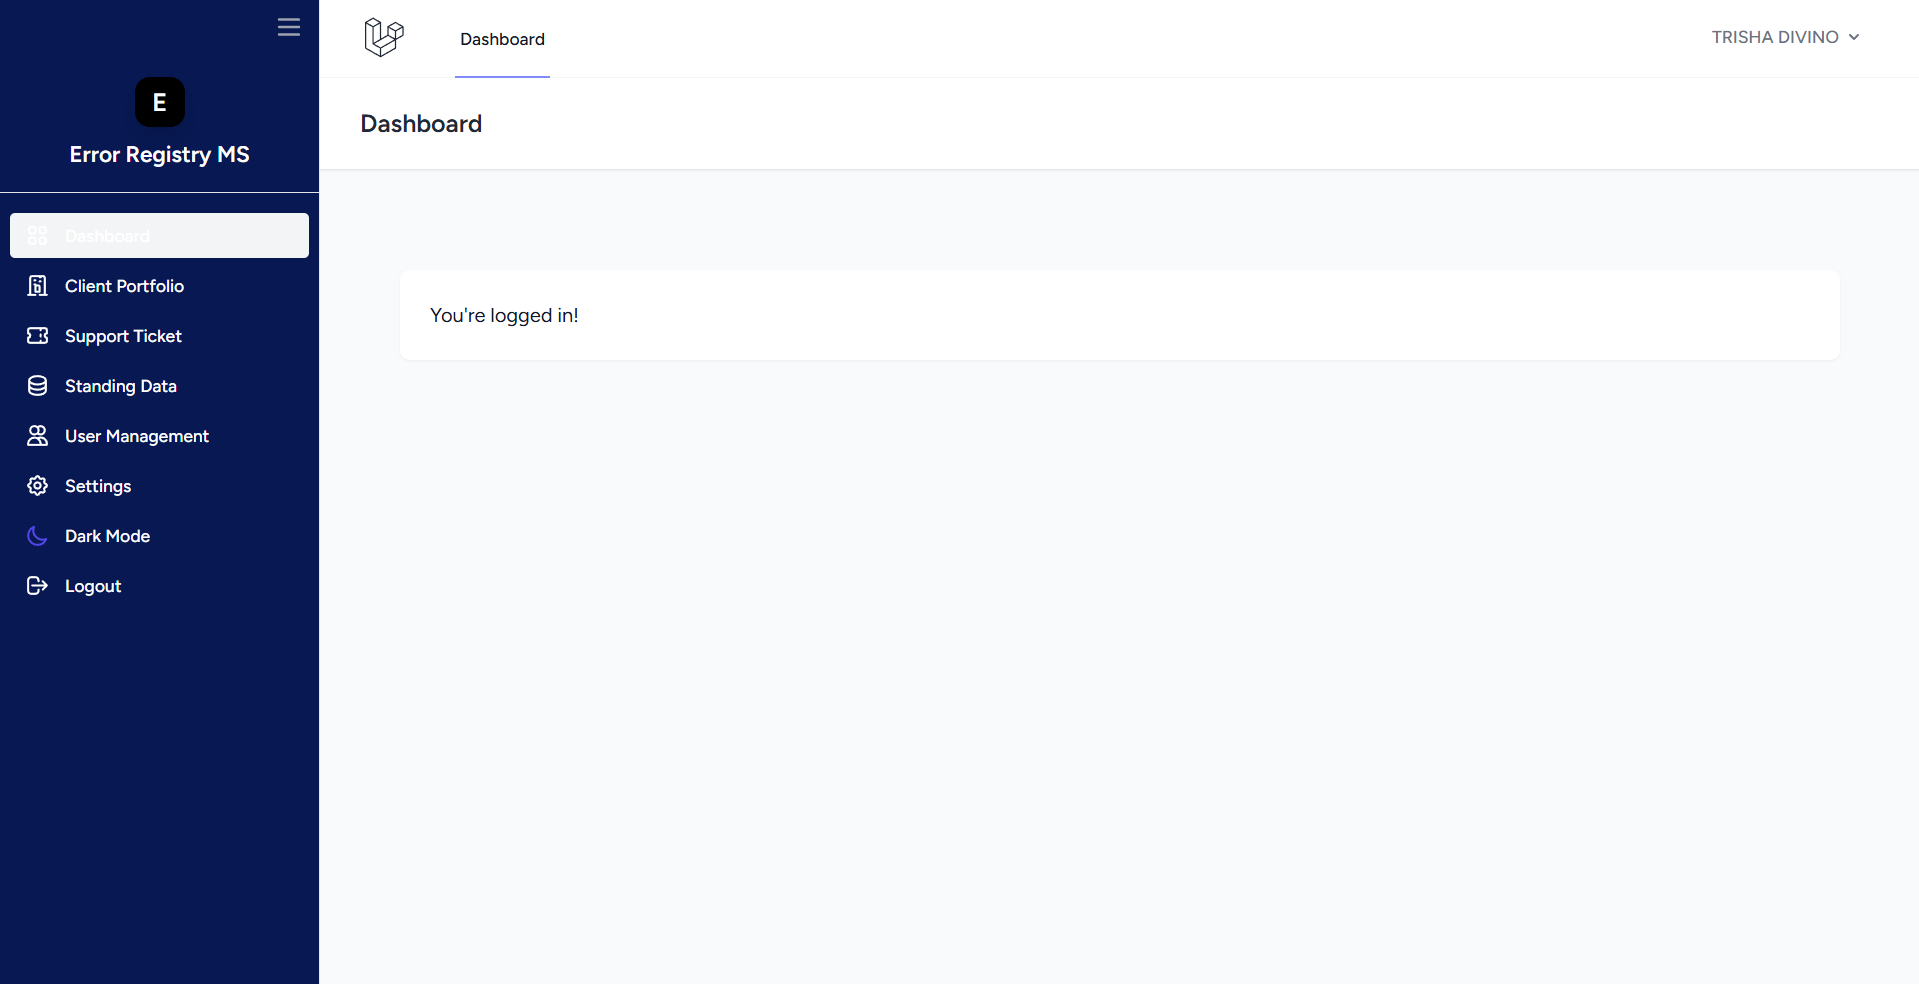
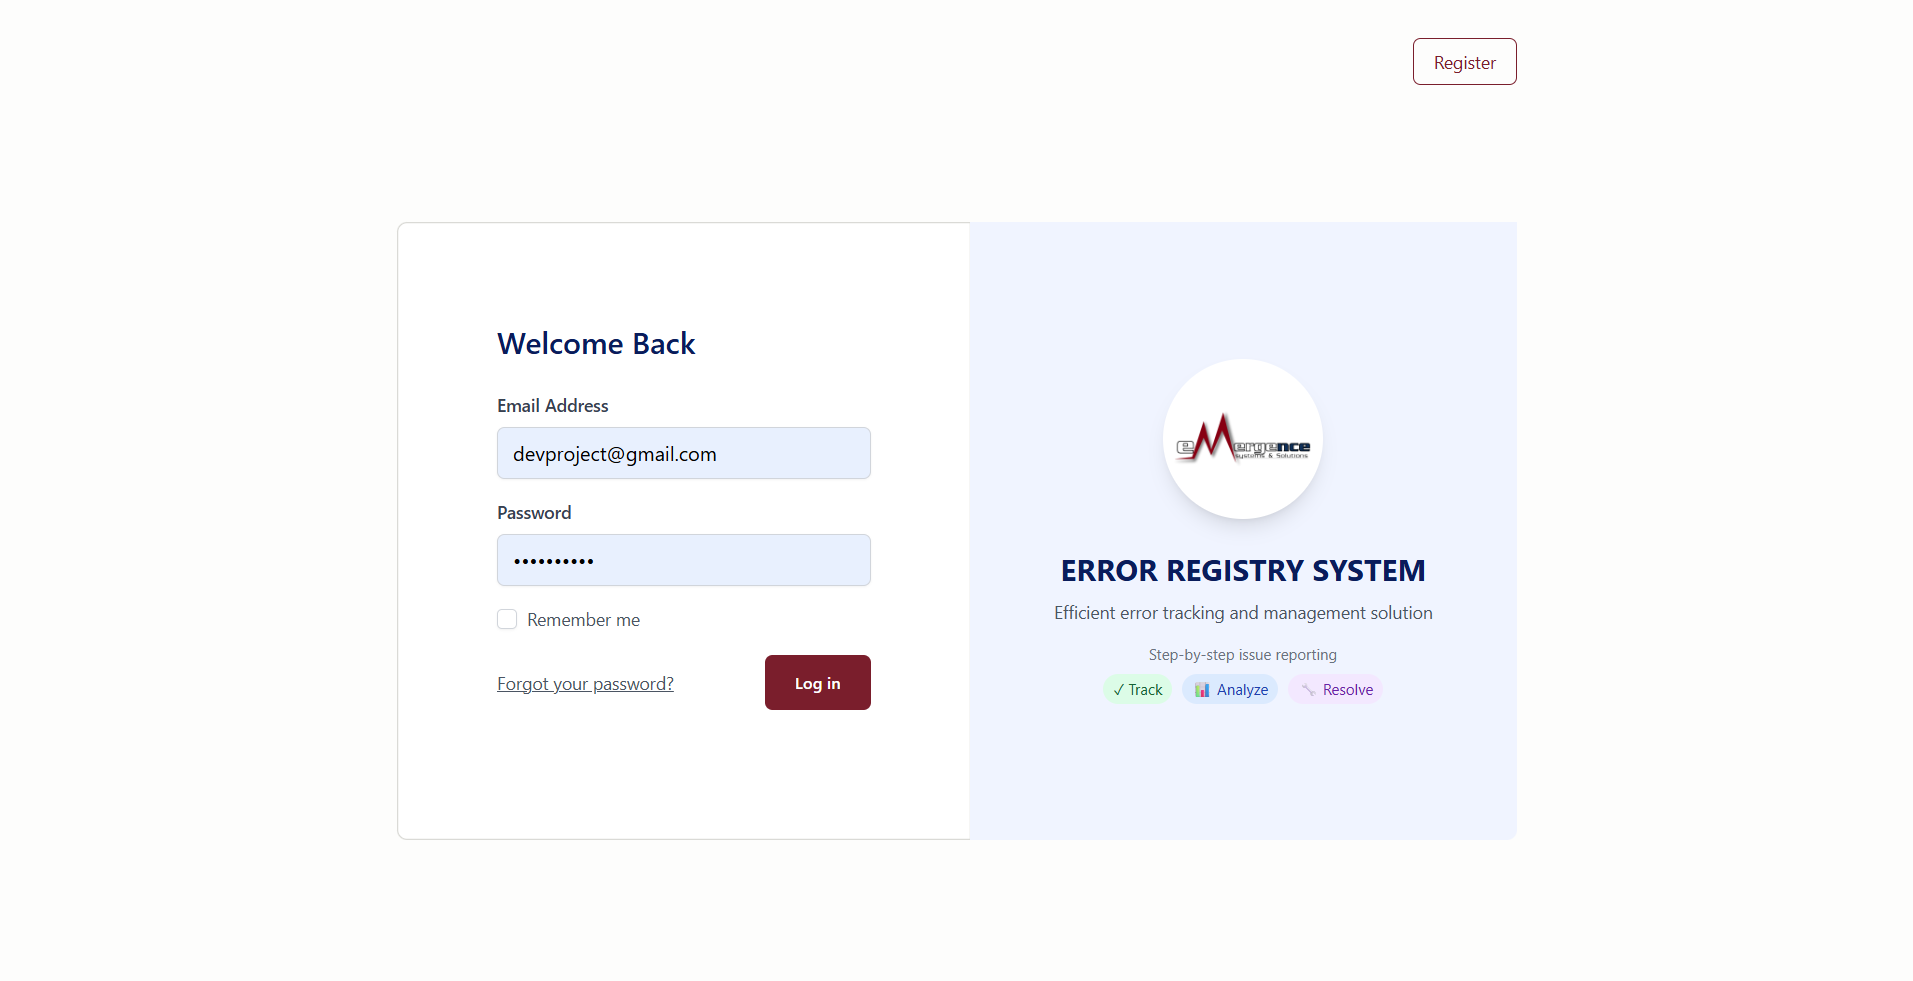
updated ers file

diff --git a/src/components/Projects.jsx b/src/components/Projects.jsx
@@ -3,7 +3,7 @@ import "./css/Projects.css";
 const projectData = [
   {
     title: "Library Management System",
-    role: "Personal Project |Main Developer",
+    role: "Freelance Project |Main Developer",
     description: "Developed a system to manage book transactions, user accounts, fines, and inventory. Features include tracking borrowed, returned, damaged, and lost books, automated report generation, and payment processing.",
     tech: "Laravel",
     status: "Completed",

diff --git a/src/components/Home.jsx b/src/components/Home.jsx
@@ -47,7 +47,7 @@ function Home() {
             </a>
 
             <a
-              href="https://www.linkedin.com/in/trisha-mae-hernando-divino-a63103354?utm_source=share_via&utm_content=profile&utm_medium=member_android"
+              href="https://www.linkedin.com/in/trisha-mae-hernando-divino-a63103354/"
               target="_blank"
               rel="noopener noreferrer"
             >
